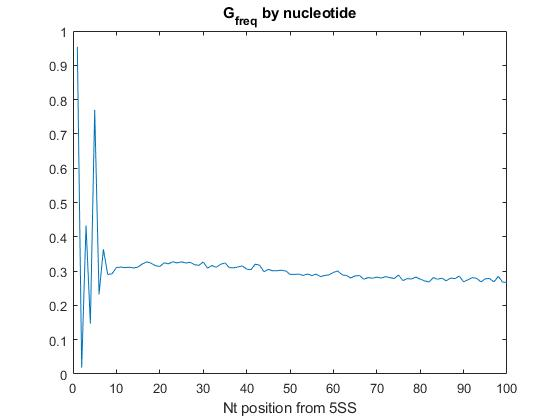
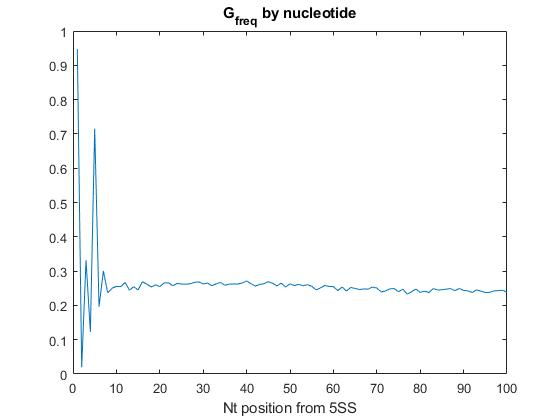
Add files via upload

Changed region(s): [[0.1214, 0.2786, 0.9107, 0.8048]]

diff --git a/GenomeScripts/DEMOGenome_Intron_G_content_Genome_Intron_G_Frequency_3ss.m b/GenomeScripts/DEMOGenome_Intron_G_content_Genome_Intron_G_Frequency_3ss.m
@@ -16,7 +16,7 @@ tic;
 while ~finished && count<maxSeq
     %read a block of sequence
     disp(['block: ' num2str(count/blocksize+1) '. There are ' num2str(numBlock-count/blocksize-1) ' blocks to go']);
-    [h,s]=fastaread('C:\Users\Desktop\Genome Scripts\all_introns.fa', 'Blockread', [count+1, count+blocksize]);
+    [h,s]=fastaread('C:\Users\Desktop\Demo10k_introns.fa', 'Blockread', [count+1, count+blocksize]);
     %calculate the G frequency by nucleotide
     sMat=char(nan(numel(s), threshNucleotide));
     for i=1:numel(s)
@@ -57,10 +57,10 @@ nucleotideG=nucleotideG./nucleotideTotal;
 figure;
 subplot(1,2,1);
 hist(freqG,0.05:0.1:1);
-title(['Histogram of G content']);
+title(['Histogram of G content DEMO']);
 xlabel('G content');
 subplot(1,2,2);
 plot(1:threshNucleotide, nucleotideG);
-title('G_{freq} by nucleotide');
+title('G_{freq} by nucleotide DEMO');
 xlabel('Nt position from 3SS');
 ylim([0 1]);

diff --git a/GenomeScripts/DEMOGenome_Intron_G_Frequency_5ss.m b/GenomeScripts/DEMOGenome_Intron_G_Frequency_5ss.m
@@ -16,7 +16,7 @@ tic;
 while ~finished && count<maxSeq
     %read a block of sequence
     disp(['block: ' num2str(count/blocksize+1) '. There are ' num2str(numBlock-count/blocksize-1) ' blocks to go']);
-    [h,s]=fastaread('C:\Users\Desktop\Genome Scripts\all_introns.fa', 'Blockread', [count+1, count+blocksize]);
+    [h,s]=fastaread('C:\Users\Desktop\Genome Scripts\Demo10k_introns.fa', 'Blockread', [count+1, count+blocksize]);
     %calculate the G frequency by nucleotide
     sMat=char(nan(numel(s), threshNucleotide));
     for i=1:numel(s)
